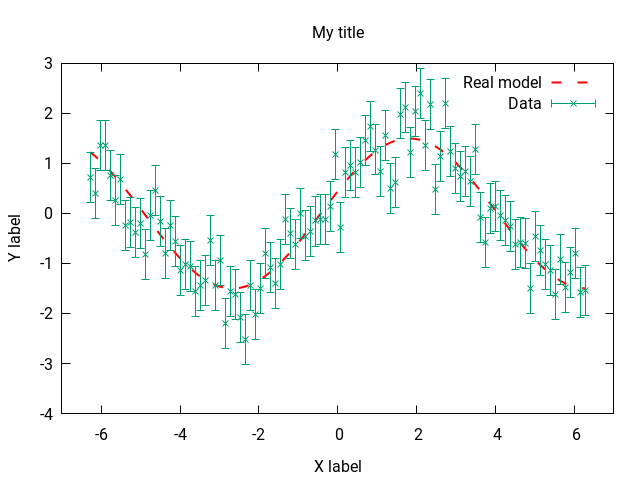
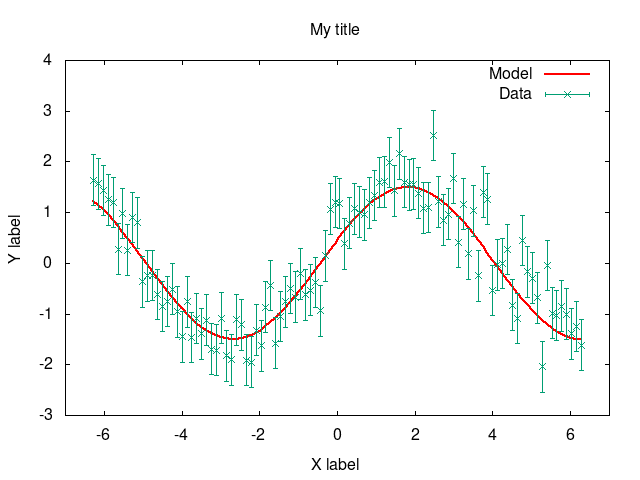
Updated

diff --git a/slides/whyfast.html b/slides/whyfast.html
@@ -27,19 +27,11 @@ end
 Native code:<br>
 <pre><code class="fragment" data-fragment-index="6" data-trim data-noescape>
 julia> <mark>@code_native</mark> myfun(3.2)
-        .text
-Filename: REPL[1]
-        pushq   %rbp
-        movq    %rsp, %rbp
-Source line: 3
-        xorpd   %xmm1, %xmm1
-        maxsd   %xmm0, %xmm1
-Source line: 6
-        mulsd   %xmm1, %xmm1
-        movapd  %xmm1, %xmm0
-        popq    %rbp
-        retq
-        nopw    %cs:(%rax,%rax)
+vxorpd	%xmm1, %xmm1, %xmm1
+vmaxsd	%xmm0, %xmm1, %xmm0
+vmulsd	%xmm0, %xmm0, %xmm0
+retq
+nopl	(%rax)
 </code></pre>
 	  </p>
 	  </td>
@@ -54,28 +46,25 @@ Float64
 </code></pre>
 	  </li>
 		  <li class="fragment" data-fragment-index="3">Julia is JIT-compiled (Just In Time):
-			when first called a function is compiled using the types
-			of the arguments<br>
+			functions <b style="color:rgb(255,191,0)">specialize</b> on argument types<br>
 			<b style="color:rgb(255,191,0)"> $\Rightarrow$ <code>myfun(3.2)</code> and <code>myfun(3)</code> run different code!</b>
 		  </li>
           <li class="fragment" data-fragment-index="5">Julia allows to inspect the type-annotated code:
-		  <pre><code data-trim data-noescape>
-julia> <mark>@code_warntype</mark> myfun(3.2)
-Variables:
-  x::Float64
-  y::Float64
-  fy::Float64
-Body:
-  begin 
-      y::Float64 = x::Float64
-      $(Expr(:inbounds, false))
-      fy::Float64 = (Base.sitofp)(Float64, 0)::Float64
-      $(Expr(:inbounds, :pop))
-      unless (Base.or_int)((Base.lt_float)(x::Float64, fy::Float64) <mark>cont...</mark>
-      y::Float64 = 0.0
-      11:
-      return (Base.mul_float)(y::Float64, y::Float64)::Float64
-  end::Float64
+		  <pre style="font-size:13px;"><code data-trim data-noescape>
+julia> @code_warntype myfun(3.2)
+Body::Float64
+3 1 ─ %1  = π (0.0, Float64)                          │╻  <
+  │   %2  = (Base.lt_float)(x, %1)::Bool              ││╻  <
+  │   %3  = π (0.0, Float64)                          ││ 
+  │   %4  = (Base.eq_float)(x, %3)::Bool              ││╻  ==
+  │   %5  = (Base.and_int)(%4, true)::Bool            ││╻  &
+  │   %6  = (Base.and_int)(%5, false)::Bool           │││
+  │   %7  = (Base.or_int)(%2, %6)::Bool               ││╻  |
+  └──       goto #3 if not %7                         │  
+  2 ─       nothing                                   │  
+6 3 ─ %10 = φ (#2 => 0.0, #1 => _2)::Float64          │  
+  │   %11 = (Base.mul_float)(%10, %10)::Float64       │╻  *
+  └──       return %11                                │  
 </code></pre>
 <b class="fragment" data-fragment-index="5" style="color:rgb(255,191,0)">  $\Rightarrow$ all types are known, code can be optimized!</b>
           </li>

diff --git a/index.html b/index.html
@@ -58,21 +58,25 @@
 		  <section data-external="slides/usingonline.html">       <h1>Using Julia: online notebooks</h1>  </section>
 		  <section data-external="slides/usingide.html">          <h1>Using Julia: JuliaPro</h1>          </section>
 		</section>
-		<section data-external="slides/community.html">         <h1>Julia community</h1>                </section>
 		<section>
-		  <section data-external="slides/astrojulian.html">       <h1>Astronomoy community</h1>           </section>
+		  <section data-external="slides/community.html">         <h1>Julia community</h1>                </section>
+		  <section data-external="slides/growth.html">            <h1>Growth</h1>                         </section>
+		  <section data-external="slides/wilkinson.html">         <h1>Wilkinson award</h1>                </section>
+		</section>
+		<section>
+		  <section data-external="slides/astrojulian.html">       <h1>Astronomy community</h1>            </section>
 		  <section data-external="slides/fits.html">              <h1>FITSIO</h1>                         </section>
 		  <section data-external="slides/plot.html">              <h1>Plotting facilities</h1>            </section>
 		  <section data-external="slides/gnuplot.html">           <h1>Gnuplot</h1>                        </section>
-		  <section data-external="slides/modeling.html">          <h1>Model fitting</h1>                  </section>
-		  <section data-external="slides/modelingex.html">        <h1>Model fitting (example)</h1>        </section>
-		  <section data-external="slides/modelingex2.html">       <h1>Model fitting (example)</h1>        </section>
+		  <section data-external="slides/modeling.html">          <h1>Data fitting</h1>                   </section>
+		  <section data-external="slides/modelingex.html">        <h1>Data fitting (example)</h1>         </section>
+		  <section data-external="slides/modelingex2.html">       <h1>Data fitting (example)</h1>         </section>
 		  <section data-external="slides/otherpkgs.html">         <h1>Other packages</h1>                 </section>
 		  <section data-external="slides/astropy.html">           <h1>Astropy</h1>                        </section>
 		</section>
 		<section data-external="slides/name.html">              <h1>Why Julia (name) ?</h1>             </section>
 		<section data-external="slides/summary.html">           <h1>Summary</h1>                        </section>	
-		<section data-external="slides/summary2.html">           <h1>Summary</h1>                        </section>
+		<section data-external="slides/summary2.html">          <h1>Summary</h1>                        </section>
 	  </div>
 	</div>
 

diff --git a/slides/community.html b/slides/community.html
@@ -8,19 +8,18 @@
   
   <li>The <i>discourse</i>, <a target="_blank"
 							   href="https://discourse.julialang.org/">https://discourse.julialang.org</a>:
-	with $\sim$3200 registered and active
-	users, the best place to search for
-	detailed informations and ask
-	questions;</li>
-  
+	with $\sim$12,400 topics,$\sim$100,00 posts, $\sim$5,400 registered and active	users, the best place to search for	detailed informations and ask questions;</li>
   
   <li>Github, <a target="_blank" href="https://github.com/JuliaLang/julia">https://github.com/JuliaLang/julia</a>:
-	core language development, with 687 contributors;</li>
+	core language development, with 795 contributors;</li>
   
-  <li>Contributed package repository, <a target="_blank" href="http://pkg.julialang.org/">http://pkg.julialang.org</a>: 1827 registered packages;</li>
+  <li>Contributed package repository, <a target="_blank" href="https://juliaobserver.com/">https://juliaobserver.com/</a>: $\sim$2,500 registered packages (although several unmaintained);</li>
 
-  <li>JuliaCon, <a target="_blank" href="http://juliacon.org/">http://juliacon.org/</a>: annual Julia conference, this year in London;</li>
+  <li>JuliaCon, <a target="_blank" href="https://github.com/trending/julia">https://github.com/trending/julia</a>:Trending Julia packages;</li>
+
   
-  <li>Youtube channel, <a target="_blank" href="https://www.youtube.com/user/JuliaLanguage">https://www.youtube.com/user/JuliaLanguage</a>: 6700 subscribers, and all JuliaCon videos available;</li>
+  <li>JuliaCon, <a target="_blank" href="http://juliacon.org/">http://juliacon.org/</a>: annual Julia conference;</li>
+  
+  <li>Youtube channel, <a target="_blank" href="https://www.youtube.com/user/JuliaLanguage">https://www.youtube.com/user/JuliaLanguage</a>: 12,500 subscribers, and all JuliaCon videos available;</li>
 </ul>
 

diff --git a/slides/metaprogrammingex.html b/slides/metaprogrammingex.html
@@ -16,27 +16,26 @@ end
 		  </code></pre>
 		  <li class="fragment" data-fragment-index="2">expands to (at compilation time):
 			<pre style="font-size:14px" class="fragment" data-fragment-index="2"><code data-trim data-noescape>
-function ex2_unmemoized(n)
+function ##ex2_unmemoized(n)
     println("Evaluating...")
     return sum(sqrt, 1:n)
 end
 
-empty!(ObjectIdDict())
+empty!(IdDict{Any,Any}())
 
 ex2(n)::Any = begin
-    if haskey(ObjectIdDict(), (n,))
-        (ObjectIdDict())[(n,)]::
-          Core.Inference.return_type(
-            ex2_unmemoized, typeof((n,)))
-    else 
-        (ObjectIdDict())[(n,)] = ex2_unmemoized(n)
+    if haskey(IdDict{Any,Any}(), (n,))
+       (IdDict{Any,Any}())[(n,)]::(Core.Compiler).return_type(
+              ##ex2_unmemoized, typeof((n,)))
+    else
+       (IdDict{Any,Any}())[(n,)] = ##ex2_unmemoized(n)
     end
 end
 		  </code></pre></li>
 		</ul>
 	  </td>
 
-	  <td style="vertical-align:top">
+	  <td style="vertical-align:top" width="5000px">
 		<img class="fragment" data-fragment-index="3" src="resources/metaex.png">
 	  </td>
 	</tr>

diff --git a/slides/whyslow1.html b/slides/whyslow1.html
@@ -1,7 +1,7 @@
 <h3>Why is Julia <i style="color:rgb(255,60,78)">slow</i> ? (1)</h3>
 
 <p style="font-size: 29px;">JIT compilation: when first called a
-  function is compiled using the types of the arguments</p>
+  function <b>specialize</b> on its arguments</p>
 
 
 <table>
@@ -13,8 +13,7 @@
 	  <td>
 		<div class="fragment" data-fragment-index="2" style="background:rgba(0,0,50,0.2)">
 		  <ul>
-			<li class="fragment" data-fragment-index="2" style="color:rgb(255,191,0);">When profiling, always run
-			  the function twice!</li>
+			<li class="fragment" data-fragment-index="2" style="color:rgb(255,191,0);">require <i>warm up</i>!</li>
 			<li class="fragment" data-fragment-index="3" style="color:rgb(255,191,0);">Module compilation takes
 			  $\sim$tens of seconds</li>
 		  </ul>

diff --git a/slides/gnuplot.html b/slides/gnuplot.html
@@ -21,14 +21,14 @@
 </table>
 
 <pre><code data-trim data-noescape>
-x = linspace(-2pi, 2pi, 100);
-y = 1.5 * sin.(0.3 + 0.7x) ;
-noise = randn(length(x))./2;
-e = 0.5 * ones(x);
+x = range(-2pi, stop=2pi, length=100)
+y = @. 1.5 * sin(0.3 + 0.7 * x)
+noise = 0.5 .* randn(length(x))
+e = fill(0.5, length(x))
 
 using Gnuplot
 @gp(tit="My title", xr=(-7,7), xlab="X label", ylabel="Y label",
     x, y, "w l t 'Model' dt 2 lw 2 lc rgb 'red'",
-    x, y+noise, e, "w errorbars t 'Data'",
-    term=("png", "gnuplot.png"))
+    x, y.+noise, e, "w errorbars t 'Data'")
+save(term="png", output="gnuplot.png")
 </code></pre>

diff --git a/slides/syntax.html b/slides/syntax.html
@@ -14,8 +14,7 @@
 	<ul>
 	  <li>Julia has an <b style="color:rgb(255,191,0)">end block delimiter</b>: <code>end</code>;</li>
 	  <li>Indexing of arrays is <b style="color:rgb(255,191,0)">1-based</b>.  Last index is <code>end</code>;</li>	
-	  <li>Julia has no <i>vectorized</i> versions of functions (they
-	  are not needed for performance).  To vectorize an expression use
+	  <li>Julia has no <i>vectorized</i> versions of functions (not needed for performance).  To vectorize an expression use
 		the <b style="color:rgb(255,191,0)">dot
 		  syntax</b>: <code>sin.([0, pi/2])</code></li>
 	  

diff --git a/slides/wilkinson.html b/slides/wilkinson.html
@@ -1,0 +1,19 @@
+<table>
+  <tbody>
+	<tr>
+	  <td width="100%">
+		<h2>Julia creators win 2019 Wilkinson Prize for Numerical Software</h2>
+		<h6>(by Argonne National Laboratory, National Physical Laboratory and Numerical Algorithms Group, <a href="http://news.mit.edu/2018/julia-language-co-creators-win-james-wilkinson-prize-numerical-software-1226">link</a>)</h6>
+		<img src="resources/julia-langauge-developers-mit-00_0.png">
+	  </td>
+	</tr>
+	<tr>
+	  <td>
+		Previous award @ MIT: FFTW (1999)
+	  </td>
+	</tr>
+  </tbody>
+</table>
+
+
+

diff --git a/slides/growth.html b/slides/growth.html
@@ -1,0 +1,8 @@
+<h2>Julia growth after v1.0 release</h2>
+<h6>(Aug. 2018, <a href="https://juliacomputing.com/blog/2019/01/04/january-newsletter.html">link</a>)</h6>
+
+<div class="image-float">
+  <p                                          style="position:relative; left: 0;   top: 0;"  ><img src="resources/popularitymetrics.png"  width="500px"/></p>
+  <p class="fragment" data-fragment-index="1" style="position:absolute; left:20px; top:20px;"><img src="resources/popularitymetrics2.png" width="600px"/></p>
+</div>
+</td>

diff --git a/slides/benchmarks5.html b/slides/benchmarks5.html
@@ -38,16 +38,16 @@ dummy = ex4(10)
     <tr>
       <td>
 <pre><code data-trim data-noescape>
-$ julia ex1.jl
+$ julia ex2.jl
 7.453559936179431e12
-  2.243097 seconds
+  0.812721 seconds
 </code></pre>
       </td>
       <td>
 <pre><code data-trim data-noescape>
 $ <mark>JULIA_NUM_THREADS=4</mark> julia ex4.jl
 7.453559936180016e12
-  0.732246 seconds (23.43 k allocations: 1.394 MiB)
+  0.417712 seconds
 </code></pre>
       </td>
     </tr>

diff --git a/slides/benchmarks3.html b/slides/benchmarks3.html
@@ -44,7 +44,7 @@ END
 <pre><code data-trim data-noescape>
 $ python ex2.py
 7.45355993618e+12
-Elapsed time:  5.990369081497192
+Elapsed time:  5.455132722854614
 (huge memory allocation)
 </code></pre>
 	  </td>
@@ -52,7 +52,7 @@ Elapsed time:  5.990369081497192
 <pre><code data-trim data-noescape>
 $ idl -e '.r ex2'
    7.4535599e+12
-Elapsed:        1.8536630
+Elapsed:        1.3164840
 </code></pre>
 	  </td>
 	</tr>

diff --git a/slides/benchmarks4.html b/slides/benchmarks4.html
@@ -36,16 +36,16 @@ end
     <tr>
       <td>
 <pre><code data-trim data-noescape>
-$ julia ex1.jl
+$ julia ex2.jl
 7.453559936179431e12
-  2.243097 seconds
+  0.812721 seconds
 </code></pre>
       </td>
       <td>
 <pre><code data-trim data-noescape>
 $ julia <mark>-p 4</mark> ex3.jl
 7.453559936179548e12
-  0.650843 seconds
+  0.267411 seconds
 </code></pre>
       </td>
     </tr>
